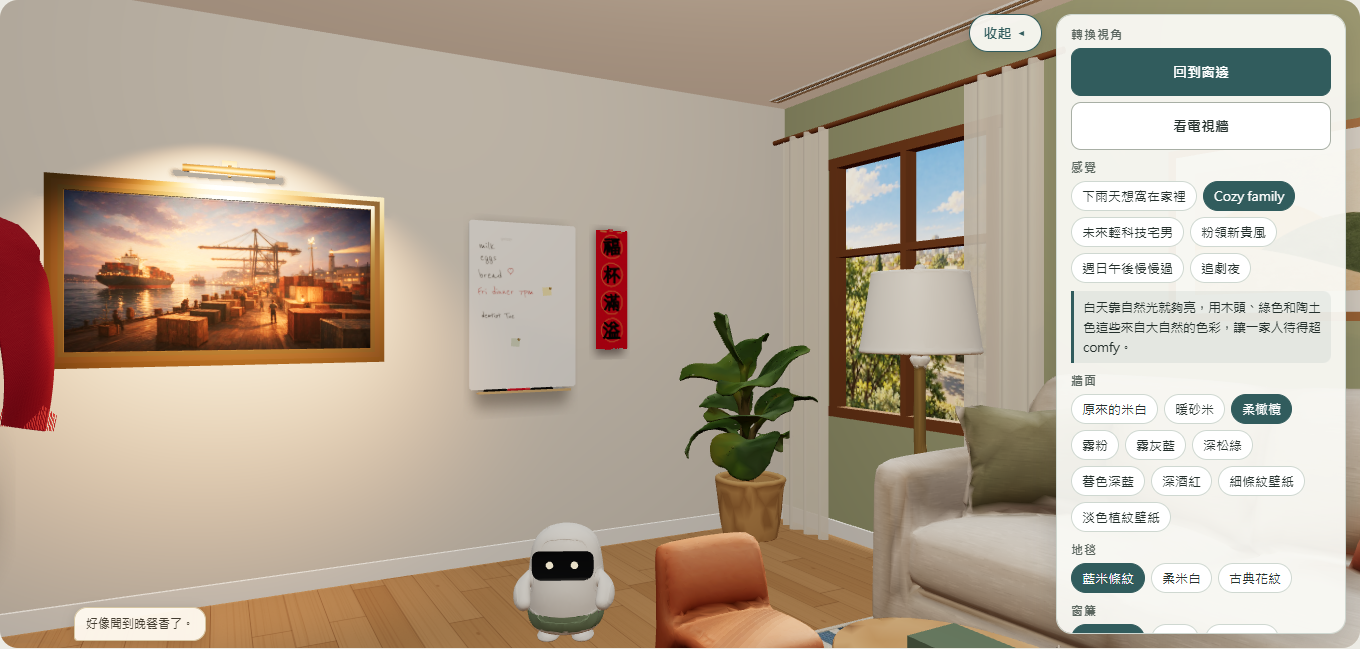
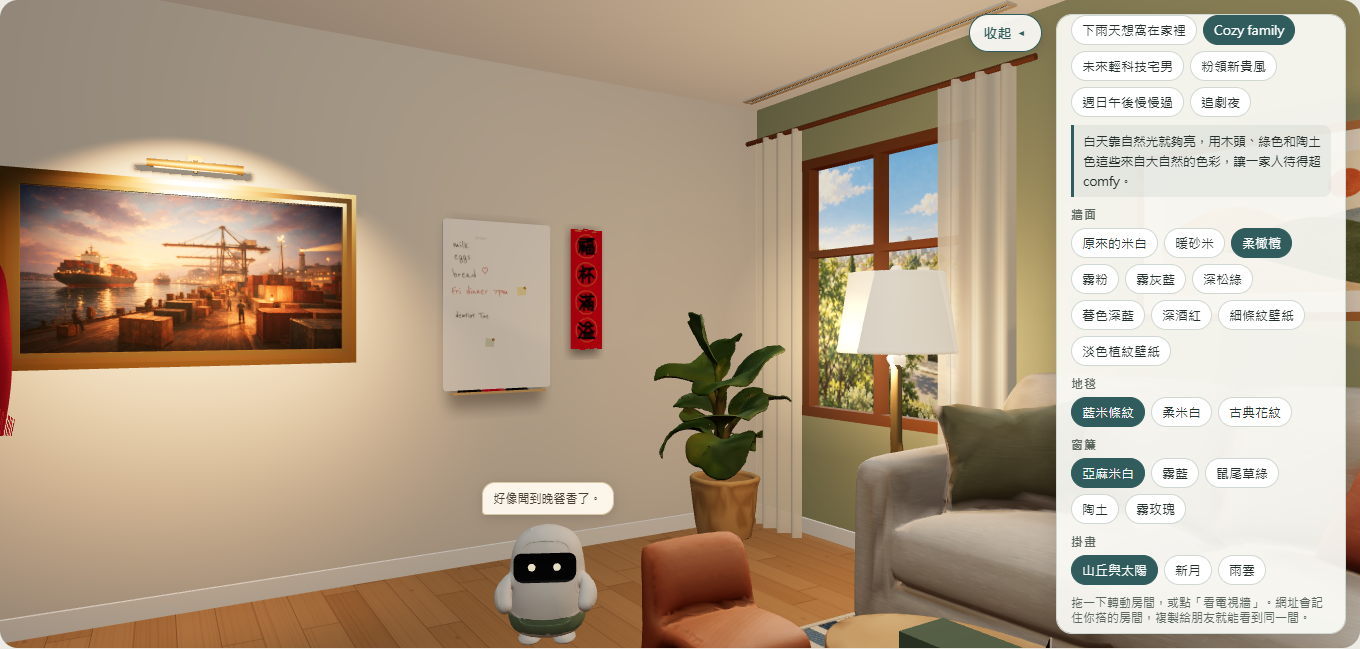
fix: center ROOMVERSE robot speech bubble

diff --git a/public/prototype/roomverse-3d/index.html b/public/prototype/roomverse-3d/index.html
@@ -37,7 +37,7 @@
   .room { position: relative; margin: 0 clamp(16px, 3vw, 40px); height: min(72vh, 760px); border-radius: 18px; overflow: hidden; background: #ddd6c8; }
   #stage { position: absolute; inset: 0; }
   #stage canvas { display: block; touch-action: none; }
-  .robot-bubble { position: absolute; z-index: 2; max-width: min(220px, calc(100% - 24px)); padding: 7px 11px; border: 1px solid #d6c6a3; border-radius: 13px 13px 13px 4px; background: #fffaf0f2; color: #443d30; font-size: 12px; line-height: 1.45; text-align: center; box-shadow: 0 3px 12px #0002; pointer-events: none; }
+  .robot-bubble { position: absolute; z-index: 2; transform: translateX(-50%); max-width: min(220px, calc(100% - 24px)); padding: 7px 11px; border: 1px solid #d6c6a3; border-radius: 13px 13px 13px 4px; background: #fffaf0f2; color: #443d30; font-size: 12px; line-height: 1.45; text-align: center; box-shadow: 0 3px 12px #0002; pointer-events: none; }
   .director-stop { position: absolute; z-index: 3; left: 12px; top: 12px; padding: 9px 14px; border: 1px solid #7e683d; border-radius: 999px; background: #fff9ec; color: #42351c; font: inherit; font-size: 14px; font-weight: 600; cursor: pointer; box-shadow: 0 2px 10px #0003; }
   .director-stop[hidden] { display: none; }
   .director-stop:focus-visible { outline: 3px solid #977b42; outline-offset: 3px; }

diff --git a/public/prototype/roomverse-3d/app.js b/public/prototype/roomverse-3d/app.js
@@ -1896,8 +1896,9 @@ export async function start({ stage, panel, lang, onReady }) {
   let downAt = null, hopping = false, hopRun = 0, suppressTap = false;
   function positionRobotBubble() {
     if (!robotBubble || robotBubble.hidden) return;
-    const head = robotObj.getWorldPosition(new THREE.Vector3());
-    head.y += rH * .72;
+    robotObj.updateWorldMatrix(true, true);
+    const bounds = new THREE.Box3().setFromObject(robotObj);
+    const head = new THREE.Vector3((bounds.min.x + bounds.max.x) / 2, bounds.max.y, (bounds.min.z + bounds.max.z) / 2);
     head.project(camera);
     const rect = stage.getBoundingClientRect();
     const half = robotBubble.offsetWidth / 2;
